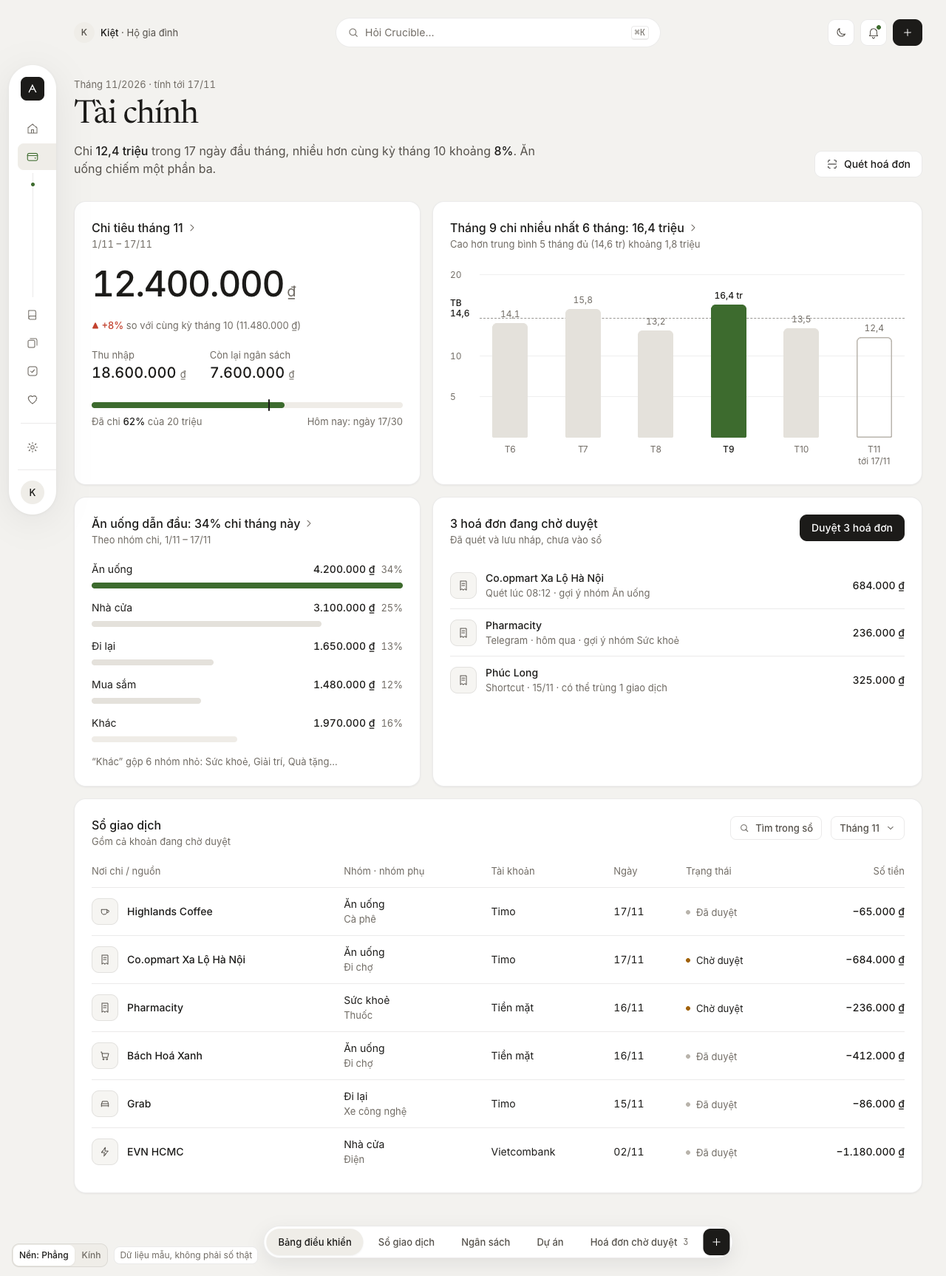
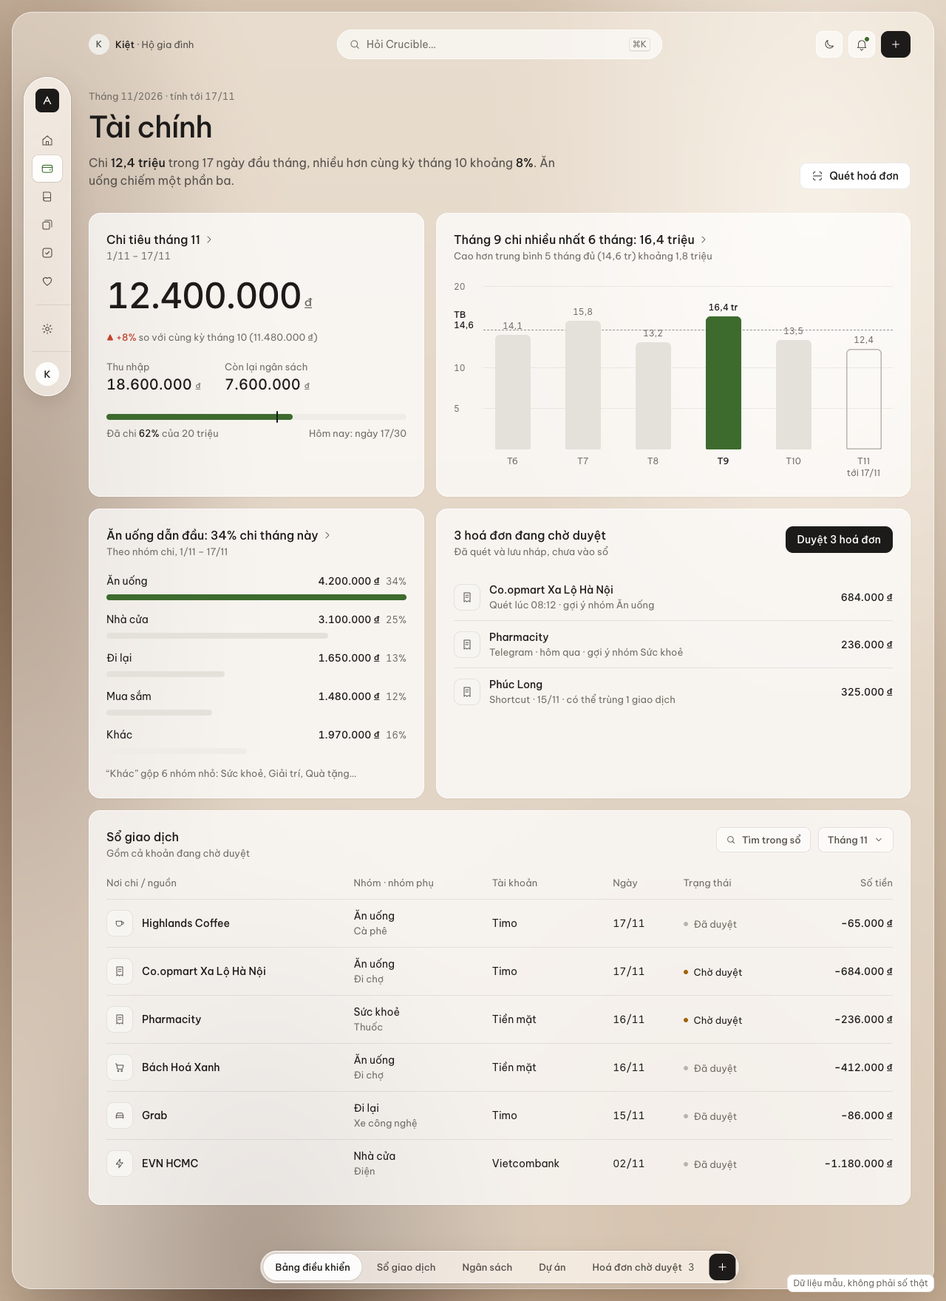
Demo giao diện sạch: Kính thành nền duy nhất, tab kính trong hơn, chữ Be Vietnam Pro (dữ liệu mẫu)
- Bỏ nút chuyển Phẳng/Kính; cửa sổ kính trên gradient ấm là mặc định
- Bỏ tab con khỏi sidebar, chỉ giữ dải viên ở đáy
- Panel sidebar, rail, dải viên, segmented, chip, thanh trên điện thoại:
  trắng mờ 62%, blur+saturate ở ::before, viền sáng 1px, bóng mềm.
  Kính sidebar dời sang ::before của .sidewrap vì clip-path/filter ở tổ
  tiên tắt backdrop-filter; chữ thấp nhất 4,74:1 (đè thẻ xanh đậm)
- Be Vietnam Pro cho toàn giao diện và tiêu đề ngày (bỏ Newsreader,
  JetBrains Mono); chữ số trong .num/cột tiền lấy từ Inter qua
  @font-face chỉ phủ U+0030-0039 để có tabular-nums
- Chụp lại 5 ảnh, xoá hai ảnh *-kinh.png

diff --git a/1991-new-design/demo/clean/demo.html b/1991-new-design/demo/clean/demo.html
@@ -6,8 +6,18 @@
 <title>Crucible OS — demo giao diện sạch, bản unslop (dữ liệu mẫu)</title>
 <link rel="preconnect" href="https://fonts.googleapis.com">
 <link rel="preconnect" href="https://fonts.gstatic.com" crossorigin>
-<link href="https://fonts.googleapis.com/css2?family=Inter:wght@400;500;600&family=Newsreader:opsz,wght@6..72,400;6..72,500&family=JetBrains+Mono:wght@400;500&display=swap&subset=vietnamese" rel="stylesheet">
+<link href="https://fonts.googleapis.com/css2?family=Be+Vietnam+Pro:wght@400;500;600&display=swap" rel="stylesheet">
 <style>
+/* =====================================================================
+   Chữ: MỘT family giao diện (Be Vietnam Pro — dấu tiếng Việt vẽ riêng, không
+   ghép). Bản trên Google Fonts KHÔNG có tabular-nums, nên "Số" là một
+   @font-face chỉ phủ CHỮ SỐ (unicode-range U+0030-0039) lấy từ Inter. Chỉ
+   các chỗ .num / cột tiền / nhãn trục dùng --fig: số mượn Inter (có tnum),
+   chữ Việt đi kèm vẫn rơi về Be Vietnam Pro. Không còn serif, không mono.
+   ===================================================================== */
+@font-face{font-family:"So";font-style:normal;font-weight:100 900;font-display:swap;
+  src:url(https://fonts.gstatic.com/s/inter/v20/UcC73FwrK3iLTeHuS_nVMrMxCp50SjIa1ZL7W0Q5nw.woff2) format("woff2");
+  unicode-range:U+0030-0039}
 /* =====================================================================
    Token — một thang trung tính hơi ấm (giấy sổ), MỘT màu nhấn lá cây.
    Màu nhấn ≠ --good: nhấn là lá ô-liu (hue ~105°), tốt là xanh rêu
@@ -26,7 +36,7 @@
   --shadow:0 1px 2px rgba(0,0,0,.05);
   --float:drop-shadow(0 1px 2px rgba(0,0,0,.05)) drop-shadow(0 8px 24px rgba(0,0,0,.07));
   --ease:cubic-bezier(.22,1,.36,1);
-  --sans:Inter,system-ui,sans-serif; --serif:Newsreader,Georgia,serif; --mono:"JetBrains Mono",ui-monospace,monospace;
+  --sans:"Be Vietnam Pro",system-ui,sans-serif; --fig:"So","Be Vietnam Pro",system-ui,sans-serif;
 }
 html[data-theme="dark"]{
   --bg:#121110; --card:#1A1917; --soft:#1F1E1B; --raised:#272522;
@@ -41,8 +51,8 @@ html[data-theme="dark"]{
 
 *{box-sizing:border-box;margin:0;padding:0}
 html,body{background:var(--bg)}
-body{font-family:var(--sans);color:var(--ink);font-size:14px;line-height:20px;-webkit-font-smoothing:antialiased;font-feature-settings:"cv11"}
-.num{font-variant-numeric:tabular-nums}
+body{font-family:var(--sans);color:var(--ink);font-size:14px;line-height:20px;-webkit-font-smoothing:antialiased}
+.num,.vlab,.yl,.reflab,.days .val,.rank .amt,.li .r,.mrow .r,.area .tip,td.r,.cnt,kbd{font-family:var(--fig);font-variant-numeric:tabular-nums}
 button,a{font:inherit;color:inherit;background:none;border:0;cursor:pointer;text-decoration:none}
 svg{display:block}
 .u{color:var(--muted);font-weight:400}
@@ -52,10 +62,9 @@ svg{display:block}
    Bung bằng clip-path (không đổi width), bóng nằm ở lớp bọc để không bị cắt. */
 /* Rail chỉ cao bằng phần nội dung của nó, không chạy hết màn. Rê nhanh qua icon → tooltip;
    dừng ~300ms → bung danh sách đầy đủ (JS gắn .open). */
-.sidewrap{position:fixed;left:var(--rail-x,12px);top:var(--rail-y,88px);width:248px;z-index:20;pointer-events:none;filter:var(--float)}
-.side{position:relative;pointer-events:auto;background:var(--card);border-radius:var(--radius-panel);padding:12px;display:flex;flex-direction:column;
+.sidewrap{position:fixed;left:var(--rail-x,12px);top:var(--rail-y,88px);width:248px;z-index:20;pointer-events:none}
+.side{position:relative;z-index:3;pointer-events:auto;border-radius:var(--radius-panel);padding:12px;display:flex;flex-direction:column;
   clip-path:inset(0 184px 0 0 round 32px);transition:clip-path 220ms var(--ease)}
-html[data-theme="dark"] .side{box-shadow:inset 0 0 0 1px var(--line)}
 .side:is(.open,:focus-within,.pinned){clip-path:inset(0 0 0 0 round var(--radius-panel))}
 .side .lbl{opacity:0;transition:opacity 160ms var(--ease)}
 .side:is(.open,:focus-within,.pinned) .lbl{opacity:1}
@@ -73,14 +82,7 @@ html[data-theme="dark"] .side{box-shadow:inset 0 0 0 1px var(--line)}
 .nav:hover{background:var(--soft);color:var(--ink)}
 .nav.on{background:var(--raised);color:var(--ink)}
 .nav.on svg{color:var(--acc)}
-.nav .cnt{margin-left:auto;font:400 12px/16px var(--mono);color:var(--muted)}
-/* Tab con: đường cây chạy đúng cột icon — ở rail vẫn thấy đường và chấm mục đang chọn */
-.sub{display:none;flex-direction:column;gap:2px;margin:2px 0 4px 20px;border-left:1px solid var(--line)}
-.sub.open{display:flex}
-.sub a{position:relative;height:32px;display:flex;align-items:center;padding-left:24px;color:var(--muted);font-size:13px;white-space:nowrap;border-radius:var(--radius-row)}
-.sub a:hover{color:var(--ink)}
-.sub a.on{color:var(--ink);font-weight:500}
-.sub a.on::before{content:"";position:absolute;left:-3px;top:13px;width:5px;height:5px;border-radius:50%;background:var(--acc)}
+.nav .cnt{margin-left:auto;font-size:13px;line-height:16px;color:var(--muted)}
 .sep{height:1px;background:var(--line);margin:12px 4px}
 .side .foot{display:flex;align-items:center;gap:12px;padding:12px 4px 0;margin-top:12px;border-top:1px solid var(--line);white-space:nowrap}
 .avatar{width:32px;height:32px;border-radius:50%;background:var(--raised);display:grid;place-items:center;font-weight:500;font-size:13px;flex:none}
@@ -105,15 +107,14 @@ body.has-dock .main{padding-bottom:112px}
 .round.btn{padding:0;justify-content:center;background:var(--btn);box-shadow:none}
 /* Dải tab con của function: viên nổi ở đáy khung nội dung */
 .dock{position:fixed;bottom:24px;left:calc(50% + var(--main-l)/2 - 16px);transform:translateX(-50%);z-index:15;display:none;align-items:center;gap:4px;padding:4px;border-radius:24px;background:var(--card);box-shadow:inset 0 0 0 1px var(--line),0 8px 24px rgba(0,0,0,.08)}
-html[data-theme="dark"] .dock{box-shadow:inset 0 0 0 1px var(--line)}
 .dock.on{display:flex}
 .dock a{height:36px;padding:0 16px;border-radius:18px;display:flex;align-items:center;gap:8px;font-size:13px;font-weight:500;color:var(--ink2);white-space:nowrap;transition:background-color 150ms var(--ease),color 150ms var(--ease)}
 .dock a:hover{color:var(--ink)}
 .dock a.on{background:var(--raised);color:var(--ink);box-shadow:var(--shadow)}
-.dock a .cnt{font:400 12px/16px var(--mono);color:var(--muted)}
+.dock a .cnt{font-size:13px;line-height:16px;font-weight:400;color:var(--muted)}
 .dock .round{width:36px;height:36px;display:grid;place-items:center}
 .dock .round svg{width:16px;height:16px}
-kbd{margin-left:auto;font:400 12px/16px var(--mono);border:1px solid var(--line);border-bottom-width:2px;border-radius:4px;padding:0 4px;color:var(--muted)}
+kbd{margin-left:auto;font-size:12px;line-height:16px;border:1px solid var(--line);border-bottom-width:2px;border-radius:4px;padding:0 4px;color:var(--muted)}
 .grow{flex:1}
 .iconbtn{width:36px;height:36px;border-radius:var(--radius-ctl);display:grid;place-items:center;position:relative;color:var(--ink2);transition:background-color 150ms var(--ease)}
 .iconbtn:hover{background:var(--card)}
@@ -129,7 +130,7 @@ kbd{margin-left:auto;font:400 12px/16px var(--mono);border:1px solid var(--line)
 
 /* ===== Đầu màn ===== */
 .hello{display:flex;align-items:flex-end;justify-content:space-between;gap:24px;margin-bottom:32px}
-h1{font-family:var(--serif);font-size:44px;font-weight:400;letter-spacing:-.02em;line-height:48px}
+h1{font-size:40px;font-weight:500;letter-spacing:-.025em;line-height:48px}
 .lede{margin-top:12px;color:var(--ink2);font-size:16px;line-height:24px;max-width:640px}
 .lede b{font-weight:500;color:var(--ink)}
 .eyebrow{color:var(--muted);font-size:13px;margin-bottom:8px}
@@ -275,77 +276,125 @@ td .s{color:var(--muted);font-size:13px}
 @keyframes enter{from{opacity:0;transform:translateY(8px)}}
 @media (prefers-reduced-motion:reduce){.view.on{animation:none}.side{transition:none}a.card:hover{transform:none}}
 
-/* Nút chuyển phương án nền — chỉ có trong demo */
-.demo-ctl{position:fixed;left:16px;bottom:12px;z-index:30;display:flex;align-items:center;gap:8px}
-.demo-ctl .mock{position:static}
-.demo-ctl .seg{height:32px;box-shadow:inset 0 0 0 1px var(--line)}
-.demo-ctl .seg button{height:28px;font-size:12px;padding:0 8px}
 
 /* =====================================================================
-   PHƯƠNG ÁN NỀN "KÍNH": cả ứng dụng là MỘT cửa sổ kính mờ trên phông nội thất ấm.
+   NỀN KÍNH (mặc định duy nhất): cả ứng dụng là MỘT cửa sổ kính mờ trên gradient ấm trung tính.
    backdrop-filter chỉ ở ::before (cửa sổ, rail, dock). Thẻ là kính sáng ĐỤC,
    không tự làm mờ — đủ để chữ ≥ 4.5:1 cả khi phông sáng nhất phía sau.
    ===================================================================== */
-.scene,.win-bg{display:none}
-html[data-bg="kinh"]{--rail-x:32px;--rail-y:104px;--muted:#635E57}
-html[data-bg="kinh"] body{--main-l:104px}
-html[data-bg="kinh"] body.pinned{--main-l:288px}
-html[data-bg="kinh"],html[data-bg="kinh"] body{background:#CDBBA6}
+html{--rail-x:32px;--rail-y:104px;--muted:#635E57}
+html body{--main-l:104px}
+html body.pinned{--main-l:288px}
+html,html body{background:#CDBBA6}
 /* Chỗ đặt ảnh nội thất thật (chủ dự án cung cấp): .scene{background:url(/scene/noi-that.jpg) center/cover}
    Tạm dựng bằng gradient ấm trung tính, làm mờ — không tím, không xanh. */
-html[data-bg="kinh"] .scene{display:block;position:fixed;inset:-80px;z-index:0;filter:blur(36px);
+html .scene{display:block;position:fixed;inset:-80px;z-index:0;filter:blur(36px);
   background:
    radial-gradient(40% 55% at 82% 18%,#F6EEE3 0%,transparent 70%),
    radial-gradient(30% 70% at 8% 40%,#7A5C45 0%,transparent 72%),
    radial-gradient(35% 40% at 30% 92%,#5E4636 0%,transparent 70%),
    radial-gradient(45% 45% at 70% 88%,#B4977A 0%,transparent 70%),
    linear-gradient(180deg,#D8C7B3,#C4AE96)}
-html[data-bg="kinh"] .win{position:relative;z-index:1;margin:16px;min-height:calc(100vh - 32px);border-radius:28px}
-html[data-bg="kinh"] .win::before{content:"";position:absolute;inset:0;border-radius:inherit;z-index:-1;
+html .win{position:relative;z-index:1;margin:16px;min-height:calc(100vh - 32px);border-radius:28px}
+html .win::before{content:"";position:absolute;inset:0;border-radius:inherit;z-index:-1;
   background:rgba(250,246,240,.46);-webkit-backdrop-filter:blur(28px) saturate(1.05);backdrop-filter:blur(28px) saturate(1.05);
   box-shadow:inset 0 0 0 1px rgba(255,255,255,.55),0 24px 64px rgba(60,40,25,.18)}
-html[data-bg="kinh"] .card{background:rgba(255,255,255,.72);box-shadow:inset 0 0 0 1px rgba(255,255,255,.7),0 1px 2px rgba(60,40,25,.06)}
-html[data-bg="kinh"] a.card:hover{background:rgba(255,255,255,.84)}
-html[data-bg="kinh"] .search,html[data-bg="kinh"] .round:not(.btn){background:rgba(255,255,255,.62);box-shadow:inset 0 0 0 1px rgba(255,255,255,.7)}
-html[data-bg="kinh"] .sidewrap{filter:drop-shadow(0 8px 24px rgba(60,40,25,.14))}
-html[data-bg="kinh"] .side{background:rgba(255,255,255,.78)}
-html[data-bg="kinh"] .dock{background:transparent;box-shadow:0 8px 24px rgba(60,40,25,.16)}
-html[data-bg="kinh"] .dock::before{content:"";position:absolute;inset:0;border-radius:inherit;z-index:-1;background:rgba(255,255,255,.6);-webkit-backdrop-filter:blur(20px);backdrop-filter:blur(20px);box-shadow:inset 0 0 0 1px rgba(255,255,255,.7)}
-html[data-bg="kinh"] .dock a.on{background:#FFFFFF}
+html .card{background:rgba(255,255,255,.72);box-shadow:inset 0 0 0 1px rgba(255,255,255,.7),0 1px 2px rgba(60,40,25,.06)}
+html a.card:hover{background:rgba(255,255,255,.84)}
+html .search,html .round:not(.btn){background:rgba(255,255,255,.62);box-shadow:inset 0 0 0 1px rgba(255,255,255,.7)}
 /* Khoảnh khắc duy nhất: một thẻ đặc màu nhấn */
-html[data-bg="kinh"] .card.moment{background:var(--acc);box-shadow:0 8px 24px rgba(40,60,30,.18)}
-html[data-bg="kinh"] .card.moment .l,html[data-bg="kinh"] .card.moment .n,html[data-bg="kinh"] .card.moment .u{color:rgba(255,255,255,.82)}
-html[data-bg="kinh"] .card.moment .v{color:#FFFFFF}
-html[data-bg="kinh"][data-theme="dark"],html[data-bg="kinh"][data-theme="dark"] body{background:#2A221C}
-html[data-bg="kinh"][data-theme="dark"]{--muted:#9A948A}
-html[data-bg="kinh"][data-theme="dark"] .scene{opacity:.45}
-html[data-bg="kinh"][data-theme="dark"] .win::before{background:rgba(22,20,18,.62);box-shadow:inset 0 0 0 1px rgba(255,255,255,.08)}
-html[data-bg="kinh"][data-theme="dark"] .card,html[data-bg="kinh"][data-theme="dark"] .side{background:rgba(30,28,25,.78);box-shadow:inset 0 0 0 1px rgba(255,255,255,.07)}
-html[data-bg="kinh"][data-theme="dark"] .search,html[data-bg="kinh"][data-theme="dark"] .round:not(.btn){background:rgba(30,28,25,.7);box-shadow:inset 0 0 0 1px rgba(255,255,255,.08)}
-html[data-bg="kinh"][data-theme="dark"] .dock::before{background:rgba(30,28,25,.7)}
-html[data-bg="kinh"][data-theme="dark"] .dock a.on{background:var(--raised)}
-html[data-bg="kinh"][data-theme="dark"] .card.moment{background:#2F5424}
+html .card.moment{background:var(--acc);box-shadow:0 8px 24px rgba(40,60,30,.18)}
+html .card.moment .l,html .card.moment .n,html .card.moment .u{color:rgba(255,255,255,.82)}
+html .card.moment .v{color:#FFFFFF}
+html[data-theme="dark"],html[data-theme="dark"] body{background:#2A221C}
+html[data-theme="dark"]{--muted:#9A948A}
+html[data-theme="dark"] .scene{opacity:.45}
+html[data-theme="dark"] .win::before{background:rgba(22,20,18,.62);box-shadow:inset 0 0 0 1px rgba(255,255,255,.08)}
+html[data-theme="dark"] .card{background:rgba(30,28,25,.78);box-shadow:inset 0 0 0 1px rgba(255,255,255,.07)}
+html[data-theme="dark"] .search,html[data-theme="dark"] .round:not(.btn){background:rgba(30,28,25,.7);box-shadow:inset 0 0 0 1px rgba(255,255,255,.08)}
+html[data-theme="dark"] .card.moment{background:#2F5424}
+
+/* =====================================================================
+   TAB KÍNH: panel sidebar, rail, dải viên đáy, segmented, chip, thanh trên
+   điện thoại. Nền trắng mờ 62%, làm mờ ở ::before (KHÔNG ở chính phần tử,
+   và tổ tiên không được có filter/clip-path/opacity — chúng chặn backdrop),
+   viền sáng 1px, bóng mềm. Chữ trên kính dùng --ink2/--glass-muted, đo
+   ≥ 4.5:1 cả khi đè thẻ trắng lẫn vệt tối nhất của gradient.
+   ===================================================================== */
+:root{
+  --glass:rgba(255,255,255,.62); --glass-blur:blur(24px) saturate(1.5);
+  --glass-edge:rgba(255,255,255,.8); --glass-hair:rgba(60,40,25,.10);
+  --glass-shadow:0 0 0 1px var(--glass-hair),0 10px 30px rgba(60,40,25,.14);
+  --glass-on:rgba(255,255,255,.92); --glass-hover:rgba(255,255,255,.55);
+  --glass-muted:#524D46;
+}
+html[data-theme="dark"]{
+  --glass:rgba(34,31,28,.6); --glass-edge:rgba(255,255,255,.12); --glass-hair:rgba(0,0,0,.3);
+  --glass-shadow:0 0 0 1px var(--glass-hair),0 10px 30px rgba(0,0,0,.3);
+  --glass-on:rgba(255,255,255,.12); --glass-hover:rgba(255,255,255,.06);
+  --glass-muted:#B8B2A8;
+}
+/* Sidebar: kính là ::before của .sidewrap (anh em của .side), vì .side cần
+   clip-path để thu thành rail mà clip-path ở tổ tiên thì tắt backdrop.
+   ::before = kính, cắt theo hình rail/panel; ::after = viền sáng + bóng, co giãn bề ngang. */
+.sidewrap::before,.sidewrap::after{content:"";position:absolute;left:0;top:0;bottom:0;pointer-events:none}
+.sidewrap::before{z-index:1;width:248px;border-radius:var(--radius-panel);background:var(--glass);
+  -webkit-backdrop-filter:var(--glass-blur);backdrop-filter:var(--glass-blur);
+  clip-path:inset(0 184px 0 0 round 32px);transition:clip-path 220ms var(--ease)}
+.sidewrap::after{z-index:2;width:64px;border-radius:32px;box-shadow:inset 0 0 0 1px var(--glass-edge),var(--glass-shadow);
+  transition:width 220ms var(--ease),border-radius 220ms var(--ease)}
+.sidewrap:has(.side:is(.open,:focus-within,.pinned))::before{clip-path:inset(0 0 0 0 round var(--radius-panel))}
+.sidewrap:has(.side:is(.open,:focus-within,.pinned))::after{width:248px;border-radius:var(--radius-panel)}
+.side .nav{color:var(--ink2)}
+/* Rail: viên mục đang chọn gọn trong cột icon, không bị cắt ở mép */
+.side:not(.open,:focus-within,.pinned) .nav{width:40px}
+.side .nav:hover{background:var(--glass-hover)}
+.side .nav.on{background:var(--glass-on);box-shadow:0 0 0 1px var(--glass-hair),0 1px 2px rgba(60,40,25,.06)}
+.side .nav svg,.side .nav .cnt,.side .foot small{color:var(--glass-muted)}
+.side .nav.on svg{color:var(--acc)}
+.side .pin{color:var(--glass-muted)}.side .pin:hover{background:var(--glass-hover)}
+.side .sep,.side .foot{border-color:var(--glass-hair)}.side .sep{background:var(--glass-hair)}
+.side .avatar{background:var(--glass-on)}
+/* Dải viên đáy */
+.dock{background:transparent;box-shadow:var(--glass-shadow)}
+.dock::before{content:"";position:absolute;inset:0;border-radius:inherit;z-index:-1;background:var(--glass);
+  -webkit-backdrop-filter:var(--glass-blur);backdrop-filter:var(--glass-blur);box-shadow:inset 0 0 0 1px var(--glass-edge)}
+.dock a{color:var(--ink2)}
+.dock a:hover{background:var(--glass-hover)}
+.dock a.on{background:var(--glass-on);box-shadow:0 0 0 1px var(--glass-hair),0 1px 2px rgba(60,40,25,.06)}
+.dock a .cnt{color:var(--glass-muted)}
+/* Segmented + chip: kính nhỏ; viền tối 1px để vẫn thấy hình khi nằm trên thẻ trắng */
+.seg,.chip,.mnav{position:relative;z-index:0;background:transparent}
+.seg::before,.chip::before,.mnav::before{content:"";position:absolute;inset:0;border-radius:inherit;z-index:-1;background:var(--glass);
+  -webkit-backdrop-filter:var(--glass-blur);backdrop-filter:var(--glass-blur);
+  box-shadow:inset 0 0 0 1px var(--glass-edge),0 0 0 1px var(--glass-hair)}
+.chip{box-shadow:none;color:var(--ink2)}
+.seg button{color:var(--glass-muted)}
+.seg button.on{background:var(--glass-on);color:var(--ink);box-shadow:0 0 0 1px var(--glass-hair),0 1px 2px rgba(60,40,25,.06)}
 
 /* ===== Điện thoại: thanh trên, không rail ===== */
 .mtop{display:none}
 @media (max-width:760px){
   .sidewrap{display:none}
-  html[data-bg="kinh"] .win{margin:8px;border-radius:20px;overflow:hidden}
+  html .win{margin:8px;border-radius:20px;overflow:hidden}
   .dock,.dock.on{position:static;transform:none;display:none;margin:12px 16px 0;overflow-x:auto;width:calc(100% - 32px);justify-content:flex-start;scrollbar-width:none}
   .dock.on{display:flex}
   .dock .round{display:none}
   body.has-dock .main{padding-bottom:48px}
   .main,body.pinned .main{padding:20px 16px 48px}
-  .mtop{display:flex;flex-direction:column;gap:12px;background:var(--card);padding:12px 16px;border-bottom:1px solid var(--line);position:sticky;top:0;z-index:4}
+  .mtop{display:flex;flex-direction:column;gap:12px;background:transparent;padding:12px 16px;border-bottom:1px solid var(--glass-hair);position:sticky;top:0;z-index:4}
+  .mtop::before{content:"";position:absolute;inset:0;z-index:-1;background:var(--glass);-webkit-backdrop-filter:var(--glass-blur);backdrop-filter:var(--glass-blur);box-shadow:inset 0 -1px 0 var(--glass-edge)}
   .mtop .r1{display:flex;align-items:center;gap:4px;height:40px}
   .mtop .brand{margin:0;padding:0;gap:8px}
   .mtop .logo{width:28px;height:28px}
   .mtop .iconbtn{width:40px;height:40px}
   .mtop .btn{height:40px;width:40px;padding:0;justify-content:center;margin-left:4px}
-  .mnav{display:flex;gap:4px;background:var(--raised);border-radius:var(--radius-ctl);padding:2px}
+  .mnav{display:flex;gap:4px;border-radius:var(--radius-ctl);padding:2px}
   .mnav .nav{height:36px;flex:1;justify-content:center;padding:0 8px;font-size:13px}
   .mnav .nav svg{display:none}
-  .mnav .nav.on{background:var(--card);box-shadow:var(--shadow)}
+  .mnav .nav{color:var(--glass-muted)}
+  .mnav .nav:hover{background:var(--glass-hover)}
+  .mnav .nav.on{background:var(--glass-on);color:var(--ink);box-shadow:0 0 0 1px var(--glass-hair),0 1px 2px rgba(60,40,25,.06)}
   .mx span:nth-child(odd):not(.on){visibility:hidden}
   .top{display:none}
   h1{font-size:36px;line-height:40px}
@@ -360,8 +409,7 @@ html[data-bg="kinh"][data-theme="dark"] .card.moment{background:#2F5424}
   .hide-m{display:none}
   .only-m{display:block}
   .bars,.xl{--gap:8px}
-  .demo-ctl .mock{display:none}
-  .demo-ctl{left:auto;right:8px;bottom:8px}
+  .mock{left:auto;right:8px;bottom:8px}
 }
 </style>
 </head>
@@ -375,16 +423,10 @@ html[data-bg="kinh"][data-theme="dark"] .card.moment{background:#2F5424}
     <nav class="navs">
       <button class="nav" data-view="tongquan"><svg data-i="home"></svg><span class="lbl">Tổng quan</span></button>
       <button class="nav" data-view="taichinh"><svg data-i="wallet"></svg><span class="lbl">Tài chính</span><span class="cnt lbl" title="3 hoá đơn chờ duyệt">3</span></button>
-      <div class="sub" data-sub="taichinh">
-        <a class="on"><span class="lbl">Bảng điều khiển</span></a><a><span class="lbl">Sổ giao dịch</span></a><a><span class="lbl">Ngân sách</span></a><a><span class="lbl">Dự án</span></a><a><span class="lbl">Hoá đơn chờ duyệt</span></a>
-      </div>
       <button class="nav"><svg data-i="book"></svg><span class="lbl">Kiến thức</span></button>
       <button class="nav"><svg data-i="cards"></svg><span class="lbl">Học tập</span></button>
       <button class="nav"><svg data-i="check"></svg><span class="lbl">Thói quen</span></button>
       <button class="nav" data-view="suckhoe"><svg data-i="heart"></svg><span class="lbl">Sức khoẻ</span></button>
-      <div class="sub" data-sub="suckhoe">
-        <a class="on"><span class="lbl">Tổng quan</span></a><a><span class="lbl">Số đo cơ thể</span></a><a><span class="lbl">Buổi tập</span></a><a><span class="lbl">Kỷ lục</span></a>
-      </div>
       <div class="sep"></div>
       <button class="nav"><svg data-i="gear"></svg><span class="lbl">Cài đặt</span></button>
     </nav>
@@ -572,7 +614,7 @@ html[data-bg="kinh"][data-theme="dark"] .card.moment{background:#2F5424}
   </main>
 </div>
 </div>
-<div class="demo-ctl"><div class="seg" title="Phương án nền (chỉ có trong demo)"><button data-bg="phang">Nền: Phẳng</button><button data-bg="kinh">Kính</button></div><div class="mock">Dữ liệu mẫu, không phải số thật</div></div>
+<div class="mock">Dữ liệu mẫu, không phải số thật</div>
 
 <script>
 /* ===== Icon nét mảnh 1,5 ===== */
@@ -708,8 +750,7 @@ document.querySelectorAll('svg[data-i]').forEach(paint);
 const q=new URLSearchParams(location.search);
 const root=document.documentElement, side=document.getElementById('side');
 let show=function(v){document.querySelectorAll('.view').forEach(s=>s.classList.toggle('on',s.id===v));
- document.querySelectorAll('.nav[data-view]').forEach(b=>b.classList.toggle('on',b.dataset.view===v));
- document.querySelectorAll('.sub').forEach(s=>s.classList.toggle('open',s.dataset.sub===v));};
+ document.querySelectorAll('.nav[data-view]').forEach(b=>b.classList.toggle('on',b.dataset.view===v));};
 function theme(t){root.dataset.theme=t;const s=document.querySelector('#themeBtn svg');s.dataset.i=t==='dark'?'sun':'moon';paint(s);}
 function pin(on){side.classList.toggle('pinned',on);document.body.classList.toggle('pinned',on);
  document.getElementById('pinBtn').setAttribute('aria-label',on?'Bỏ ghim thanh bên':'Ghim thanh bên');try{localStorage.setItem('crucible-pin',on?'1':'')}catch(e){}}
@@ -719,8 +760,6 @@ const DOCK={
 function dock(v){const d=document.getElementById('dock'),c=DOCK[v];d.classList.toggle('on',!!c);document.body.classList.toggle('has-dock',!!c);if(!c)return;
  d.innerHTML=c.tabs.map(([t,n],i)=>`<a href="#" class="${i?'':'on'}">${t}${n?`<span class="cnt">${n}</span>`:''}</a>`).join('')+`<button class="btn round" aria-label="${c.add}" title="${c.add}">${ic('plus')}</button>`;}
 const _show=show;show=v=>{_show(v);dock(v);};
-function bg(b){root.dataset.bg=b;document.querySelectorAll('.demo-ctl [data-bg]').forEach(x=>x.classList.toggle('on',x.dataset.bg===b));}
-document.querySelectorAll('.demo-ctl [data-bg]').forEach(x=>x.onclick=()=>bg(x.dataset.bg));
 /* Rail: rê nhanh → tooltip; dừng 300ms → bung */
 const tip=document.getElementById('ntip');let tOpen,tClose;
 side.addEventListener('mouseenter',()=>{clearTimeout(tClose);tOpen=setTimeout(()=>{side.classList.add('open');tip.classList.remove('on')},300)});
@@ -731,7 +770,7 @@ document.querySelectorAll('.nav[data-view]').forEach(b=>b.onclick=()=>show(b.dat
 document.getElementById('themeBtn').onclick=()=>theme(root.dataset.theme==='dark'?'light':'dark');
 document.getElementById('pinBtn').onclick=()=>pin(!side.classList.contains('pinned'));
 document.querySelectorAll('a.card').forEach(a=>a.onclick=e=>e.preventDefault());
-bg(q.get('bg')||'phang');show(q.get('v')||'tongquan');theme(q.get('theme')||'light');
+show(q.get('v')||'tongquan');theme(q.get('theme')||'light');
 let saved='';try{saved=localStorage.getItem('crucible-pin')||''}catch(e){}
 pin(q.get('side')==='pin'||(!q.get('side')&&!!saved));
 if(q.get('side')==='open') side.classList.add('open');
